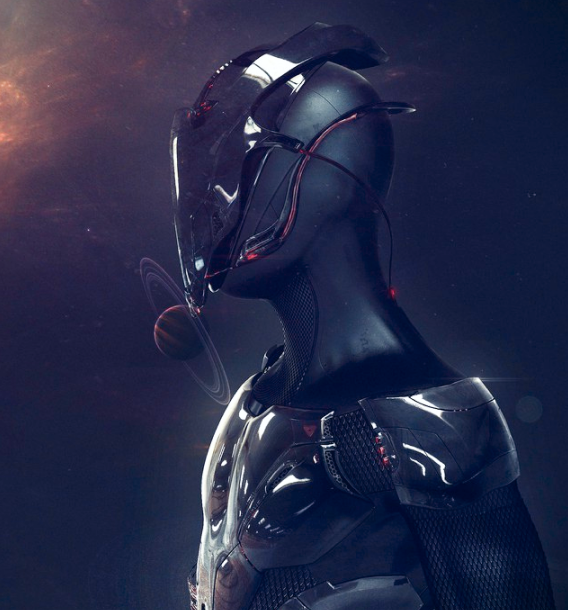
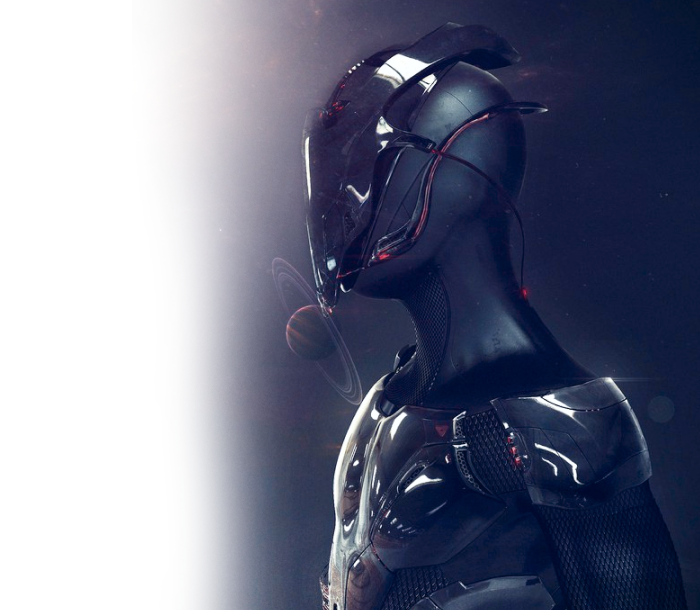
feat: background images

diff --git a/src/lib/components/surface.tsx b/src/lib/components/surface.tsx
@@ -1,0 +1,149 @@
+import React from "react";
+import * as THREE from "three";
+import useRenderOrder from "@/lib/hooks/use-render-order";
+import useRenderKey from "@/lib/hooks/use-render-key";
+
+enum Orientation {
+  landscape = "landscape",
+  portrait = "portrait",
+}
+
+type Props = {
+  children?: React.ReactNode;
+  width?: number;
+  height?: number;
+  backgroundColor?: THREE.ColorRepresentation;
+  backgroundImage?: string;
+  backgroundSize?: "cover" | "contain";
+  tint?: THREE.ColorRepresentation;
+  zIndex?: number;
+};
+
+export default function Surface({
+  children,
+  width = 1,
+  height = 1,
+  backgroundColor = "black",
+  backgroundImage,
+  backgroundSize,
+  tint,
+  zIndex = 0,
+}: Props) {
+  // Set geometry size from `width` and `height` props
+  const size = React.useMemo(() => {
+    return { width, height };
+  }, [width, height]);
+
+  // Set material texture from `backgroundImage` prop
+  const [texture, setTexture] = React.useState<THREE.Texture>(undefined);
+  React.useMemo(() => {
+    if (backgroundImage === undefined) return;
+    new THREE.TextureLoader().loadAsync(backgroundImage).then(setTexture);
+  }, [backgroundImage]);
+
+  const [imageRatioX, imageRatioY, surfaceRatioX, surfaceRatioY] =
+    React.useMemo(() => {
+      const surfaceRatioX = size.width / size.height;
+      const surfaceRatioY = size.height / size.width;
+      if (texture === undefined) {
+        return [surfaceRatioX, surfaceRatioY, surfaceRatioX, surfaceRatioY];
+      }
+      const imageRatioX = texture.image.width / texture.image.height;
+      const imageRatioY = texture.image.height / texture.image.width;
+      return [imageRatioX, imageRatioY, surfaceRatioX, surfaceRatioY];
+    }, [texture, size]);
+
+  const surfaceOrientation = React.useMemo<Orientation>(() => {
+    if (size.width >= size.height) {
+      return Orientation.landscape;
+    } else {
+      return Orientation.portrait;
+    }
+  }, [size]);
+
+  const textureOrientation = React.useMemo<Orientation>(() => {
+    if (texture === undefined) return surfaceOrientation;
+    if (texture.image.width >= texture.image.height) {
+      return Orientation.landscape;
+    } else {
+      return Orientation.portrait;
+    }
+  }, [texture, surfaceOrientation]);
+
+  const planes = React.useMemo(() => {
+    const plane = new THREE.Plane(new THREE.Vector3(), 1);
+    return [plane.clone(), plane.clone(), plane.clone(), plane.clone()];
+  }, []);
+
+  const [textureSize, textureClippingPlanes] = React.useMemo(() => {
+    if (texture === undefined) return [size, planes];
+
+    const newSize = { ...size };
+
+    // @todo find a way to simplify this
+
+    if (backgroundSize === "contain") {
+      if (imageRatioX >= surfaceRatioX) {
+        newSize.width = size.width;
+        newSize.height = newSize.width * imageRatioY;
+      } else {
+        newSize.height = size.height;
+        newSize.width = newSize.height * imageRatioX;
+      }
+    }
+
+    if (backgroundSize === "cover") {
+      if (imageRatioX >= surfaceRatioX) {
+        newSize.height = size.height;
+        newSize.width = newSize.height * imageRatioX;
+      } else {
+        newSize.width = size.width;
+        newSize.height = newSize.width * imageRatioY;
+      }
+    }
+
+    planes[0].set(new THREE.Vector3(0, -1, 0), size.height * 0.5);
+    planes[1].set(new THREE.Vector3(1, 0, 0), size.width * 0.5);
+    planes[2].set(new THREE.Vector3(0, 1, 0), size.height * 0.5);
+    planes[3].set(new THREE.Vector3(-1, 0, 0), size.width * 0.5);
+
+    return [newSize, planes];
+  }, [
+    planes,
+    surfaceOrientation,
+    textureOrientation,
+    texture,
+    size,
+    backgroundSize,
+    imageRatioX,
+    imageRatioY,
+    surfaceRatioX,
+    surfaceRatioY,
+  ]);
+
+  const renderOrder = useRenderOrder();
+  const key = useRenderKey([texture, tint]);
+
+  return (
+    <group key={key}>
+      <mesh renderOrder={renderOrder + zIndex}>
+        <planeBufferGeometry args={[size.width, size.height]} />
+        <meshBasicMaterial
+          color={backgroundColor}
+          transparent={true}
+          depthWrite={false}
+        />
+      </mesh>
+      <mesh visible={texture !== undefined} renderOrder={renderOrder + zIndex}>
+        <planeBufferGeometry args={[textureSize.width, textureSize.height]} />
+        <meshBasicMaterial
+          map={texture}
+          transparent={true}
+          depthWrite={false}
+          clippingPlanes={textureClippingPlanes}
+        />
+      </mesh>
+      {children}
+    </group>
+  );
+}

diff --git a/src/examples/layout.tsx b/src/examples/layout.tsx
@@ -1,12 +1,12 @@
 import React from "react";
 import { Canvas } from "@react-three/fiber";
 import { OrbitControls, PerspectiveCamera } from "@react-three/drei";
-import Surface from "@/lib/components/surface/surface";
+import Surface from "@/lib/components/surface";
 
 export default function Layout() {
   return (
-    <Canvas flat linear>
-      {/* Cameras, controls and lights */}
+    <Canvas flat linear gl={{ localClippingEnabled: true }}>
+      {/** Cameras, controls and lights */}
       <PerspectiveCamera makeDefault position={[0, 0, 5]} />
       <OrbitControls makeDefault />
       <ambientLight />
@@ -15,9 +15,9 @@ export default function Layout() {
 
       <Surface backgroundColor="crimson" width={3} height={3}>
         <Surface
-          width={1}
-          height={2}
-          backgroundSize="contain"
+          width={1.5}
+          height={1.5}
+          backgroundSize="cover"
           backgroundColor="green"
           backgroundImage="./assets/images/robot.png"
         />
